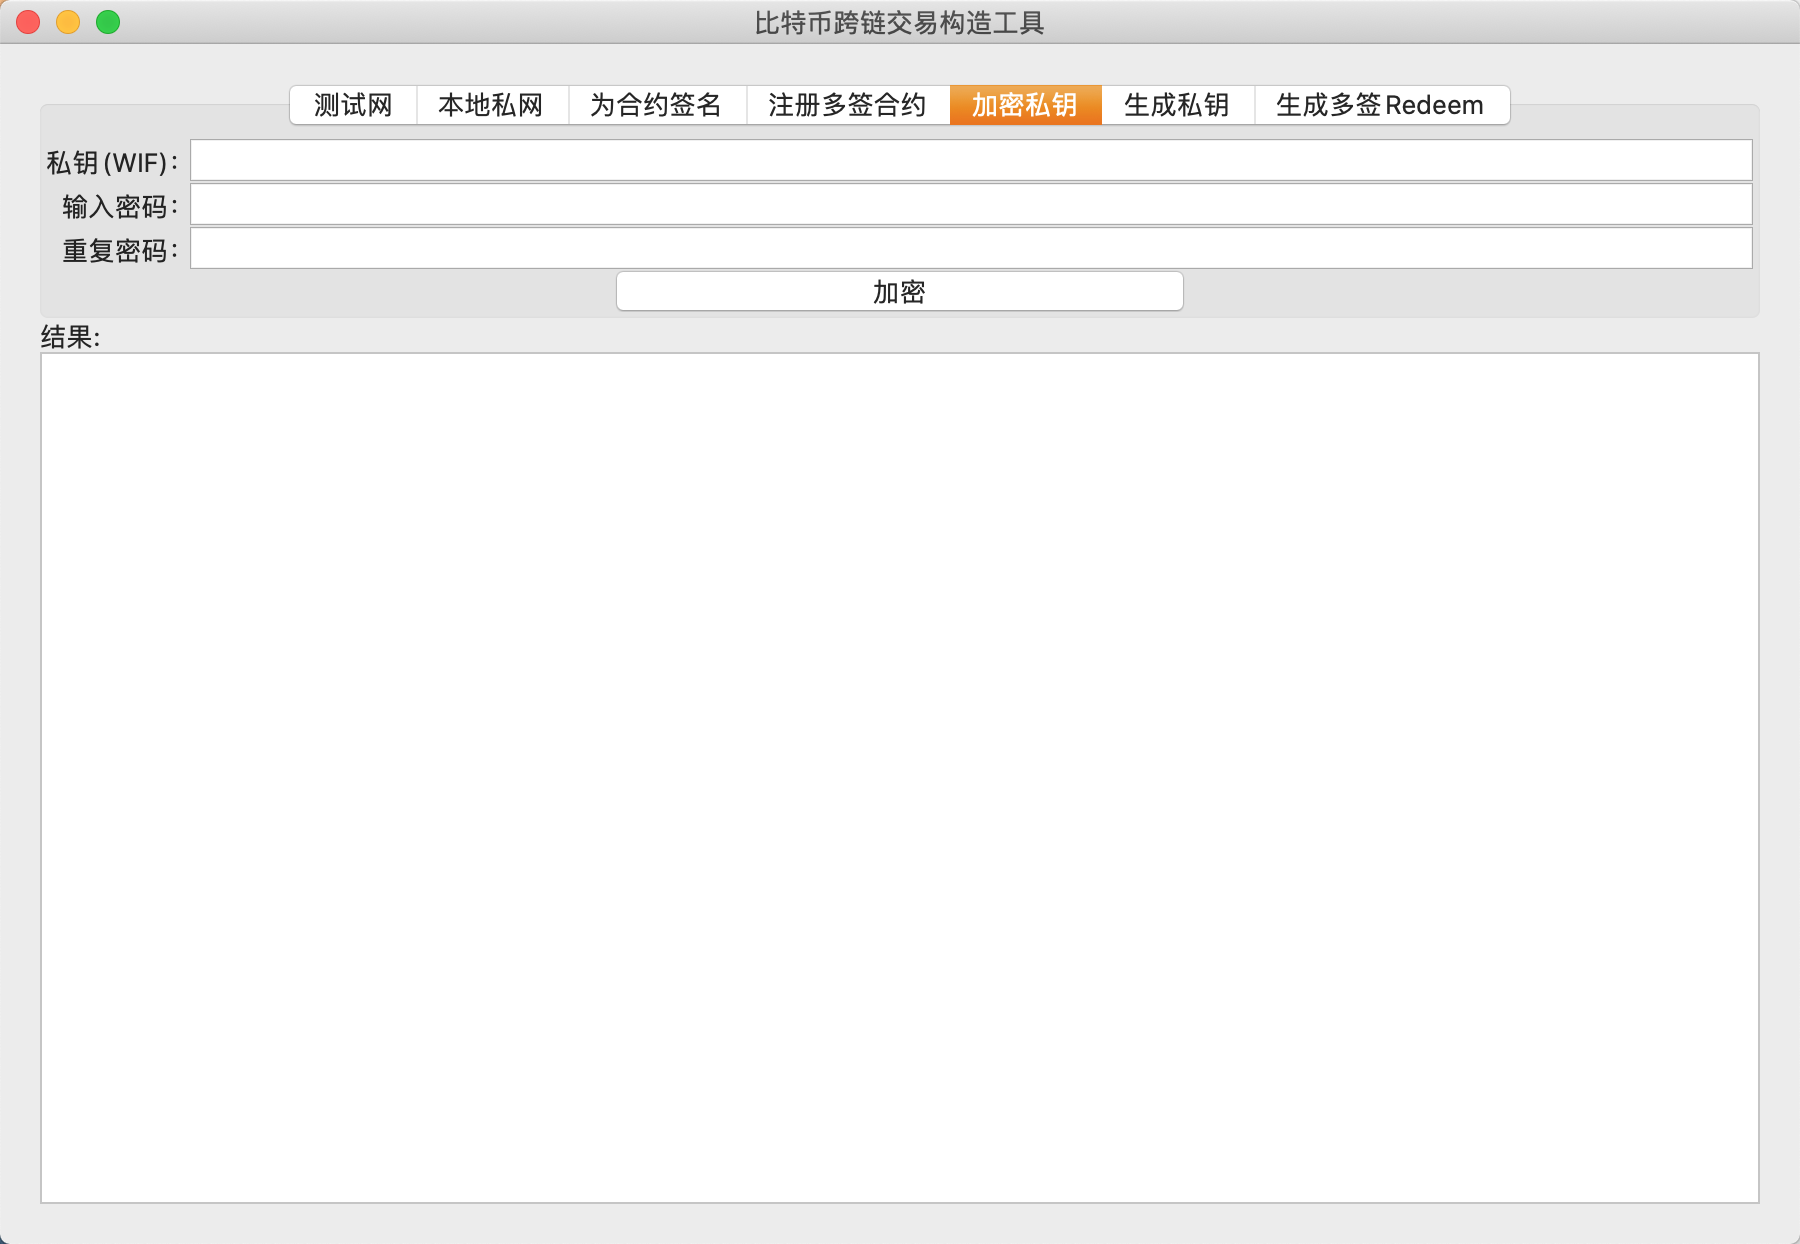
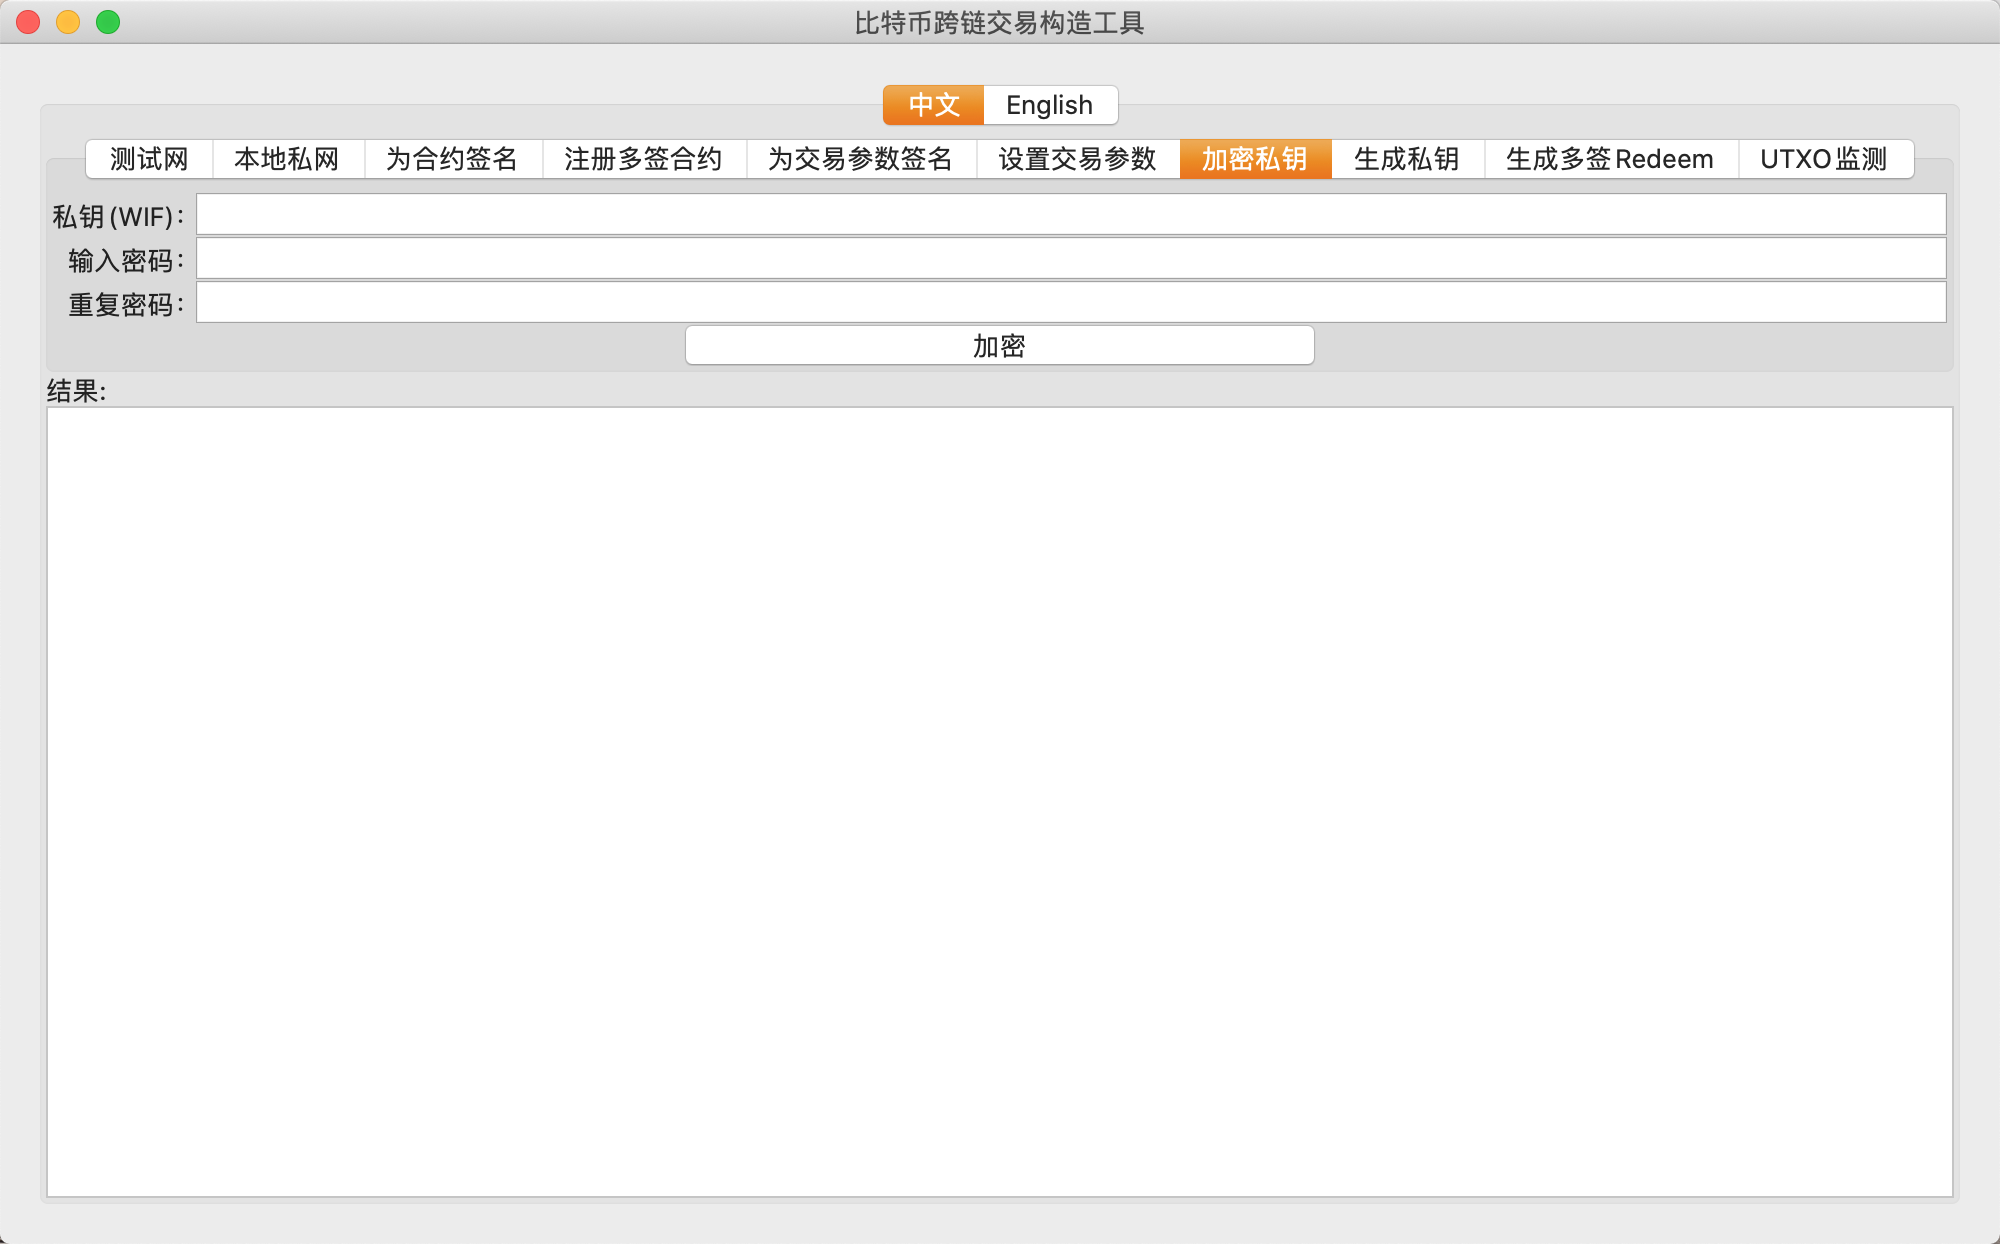
btctool: update pic in EN

diff --git a/btc/cross-chain_transaction_construction_tool_user_manual.md b/btc/cross-chain_transaction_construction_tool_user_manual.md
@@ -21,7 +21,7 @@ The GUI supported version of the tool is available for download. Please follow [
 
 The main window of the GUI version of the tool is as displayed in the picture below. The tabs on the top are used to select a particular function and provide the respective parameters to implement the corresponding function and send a cross chain transaction.
 
-<div align=center><img width="600" height="422" src="./pic/gui.png"/></div>
+<div align=center><img width="700" height="422" src="./pic/gui_en.png"/></div>
 
 All the functions in the top tab of the **btctool** have been described below:
 
@@ -62,11 +62,11 @@ A sample cross chain transaction on the test net would involve the following ste
 
 The picture below illustrates a transaction that transfers **0.0001 BTC** to the Ethereum test net. The transaction fee is set to 0.00001 BTC. The target chain token contract hash, the receiving address on the target chain, and Ethereum's chain ID is also specified. And then then the UTXO details are provided which can also be fetched directly using the BTC full node's RPC. 
 
-<div align=center><img width="430" height="180" src="./pic/param.png"/></div>
+<div align=center><img width="630" height="230" src="./pic/param_en.png"/></div>
 
 2. Click the button to the see the result. The tool will display the transaction hash. This transaction hash can be copied and broadcasted. In a private net, the transaction will be transferred to the node using the RPC, which will then automatically broadcast it. For example:
 
-<div align=center><img width="470" height="144" src="./pic/res.png"/></div>
+<div align=center><img width="670" height="80" src="./pic/res_en.png"/></div>
 
 The transaction hash, as displayed in the picture above can be copied and broadcasted using this [tool](https://tbtc.bitaps.com/broadcast). A transaction ID will be obtained, such as "[de4eaa98252b24a1cd658f847c0a05083b6d03b4d5ad188f7cb62a808091ba8a](https://tbtc.bitaps.com/de4eaa98252b24a1cd658f847c0a05083b6d03b4d5ad188f7cb62a808091ba8a)"
 
@@ -74,7 +74,7 @@ The transaction hash, as displayed in the picture above can be copied and broadc
 
 The vendors looking to start cross chain businesses need to register their contracts and multi-signature `Redeem` scripts on the target chain before becoming a part of the cross chain ecosystem. The relay chain will verify the signatures of each transaction and their link to the contract.
 
-<div align=center><img width="580" height="400" src="./pic/sign.png"/></div>
+<div align=center><img width="680" height="400" src="./pic/sign_en.png"/></div>
 
 Fill in the WIF private as shown above and click the **sign** button to link the target chain contract and the multi-signature **redeem** script. The result will be displayed at the bottom. The vendor needs to record their signature, and all the signatures are consolidated, they can be registered on the relay chain.
 
@@ -82,7 +82,7 @@ Fill in the WIF private as shown above and click the **sign** button to link the
 
 The multi-signature scripts and contracts that have been registered on the relay chain are the only ones that can carry out cross chain transactions. Fill in the parameters as displayed in the following picture and click on register. The result pane will display the relay chain transaction hash.
 
-<div align=center><img width="580" height="420" src="./pic/register.png"/></div>
+<div align=center><img width="680" height="420" src="./pic/register_en.png"/></div>
 
 |        Parameter        | Description                                                                                               |
 | :---------------------: | --------------------------------------------------------------------------------------------------------- |
@@ -98,7 +98,7 @@ The multi-signature scripts and contracts that have been registered on the relay
 
 After the vendor links the multi-signature tool to the contract they can set the parameters required to create the transaction that releases the locked BTC. First the parameters need to be fixed, and then all the collaborators use their respective private keys to sign them after filling them in.
 
-<div align=center><img width="640" height="420" src="./pic/signparam.png"/></div>
+<div align=center><img width="640" height="420" src="./pic/signparam_en.png"/></div>
 
 The parameters have been described below:
 
@@ -114,7 +114,7 @@ The parameters have been described below:
 
 Once the min. no. of necessary signatures are collected for signing the parameters are collected on the relay chain, the transaction parameter setting will be carrid out. The signatures can be sent individually or accumulated and then sent in a group. Fill in the required parameters as shown in the picture below:
 
-<div align=center><img width="640" height="420" src="./pic/setparam.png"/></div>
+<div align=center><img width="640" height="420" src="./pic/setparam_en.png"/></div>
 
 The parameters have been described below.
 
@@ -133,26 +133,26 @@ The parameters have been described below.
 
 A Bitcoin private key file needs to be generated before running the multi-signature contract. The relay chain's encryption method is used here. As illustrated in the picture below, fill in the parameters to generate the encrypted wallet file.
 
-<div align=center><img width="580" height="420" src="./pic/encrypt.png"/></div>
+<div align=center><img width="580" height="420" src="./pic/encrypt_en.png"/></div>
 
 ### Generating Private Key
 
 The tool can be used to generate a BTC private key, and display the public key and the address associated. The network type field can be assigned the values `test`, `regtest` and `main`, which respectively correspond to the test net, private net, and main net.
 
-<div align=center><img width="600" height="420" src="./pic/getprivk.png"/></div>
+<div align=center><img width="600" height="420" src="./pic/getprivk_en.png"/></div>
 
 
 ### Generating the Multi-Signature Redeem Script
 
 Fill in the network type, the public keys of all the collaborators (separated using commas), and the no. of signatures required for authentication. Click on the **fetch** button to get the redeem script. The various types of multi-signature addresses are all generated using the redeem script. It is recommended that you use `P2WSH` addresses in order to minimize transaction fees.
 
-<div align=center><img width="600" height="450" src="./pic/redeem.png"/></div>
+<div align=center><img width="600" height="450" src="./pic/redeem_en.png"/></div>
 
 ### UTXO Monitoring
 
 This feature of the **btctool** allows the vendor to dynamically monitor the relay chain UTXO thereby making it more convenient for them to carry out cross chain transactions. Fill in the relay chain RPC address, a min. amount and the redeem script. The UTXO information will be displayed at the bottom and added to the corresponding file.
 
-<div align=center><img width="640" height="420" src="./pic/utxo_mon.png"/></div>
+<div align=center><img width="640" height="420" src="./pic/utxo_mon_en.png"/></div>
 
 The parameters are described below.
 
